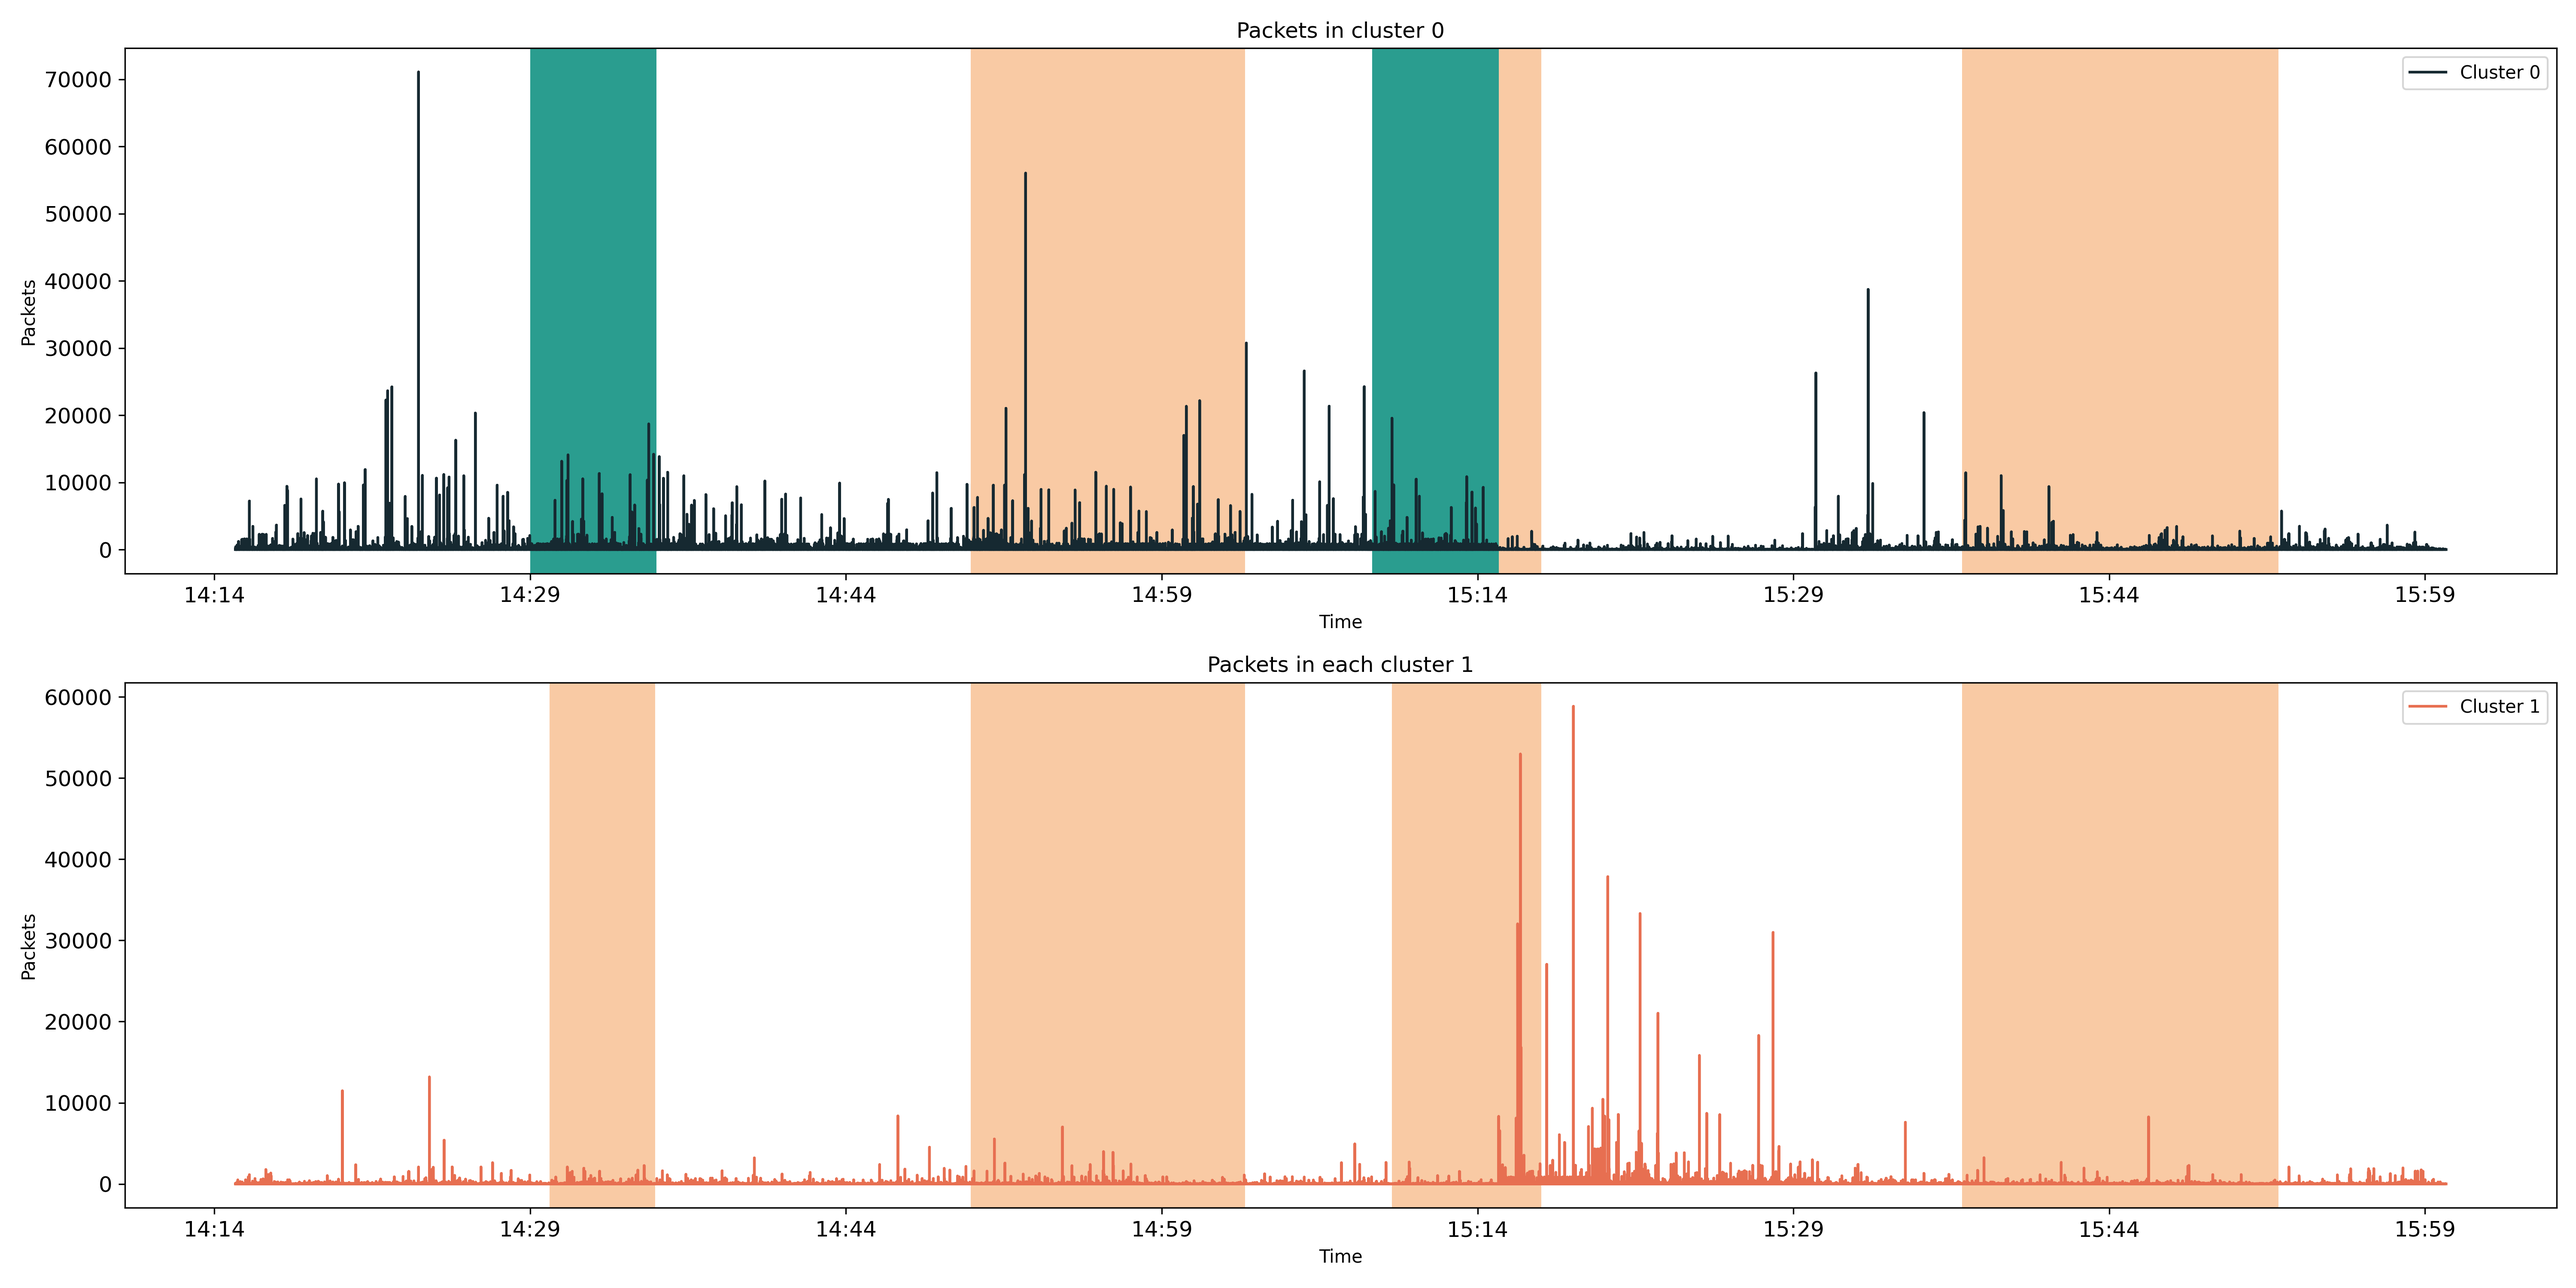
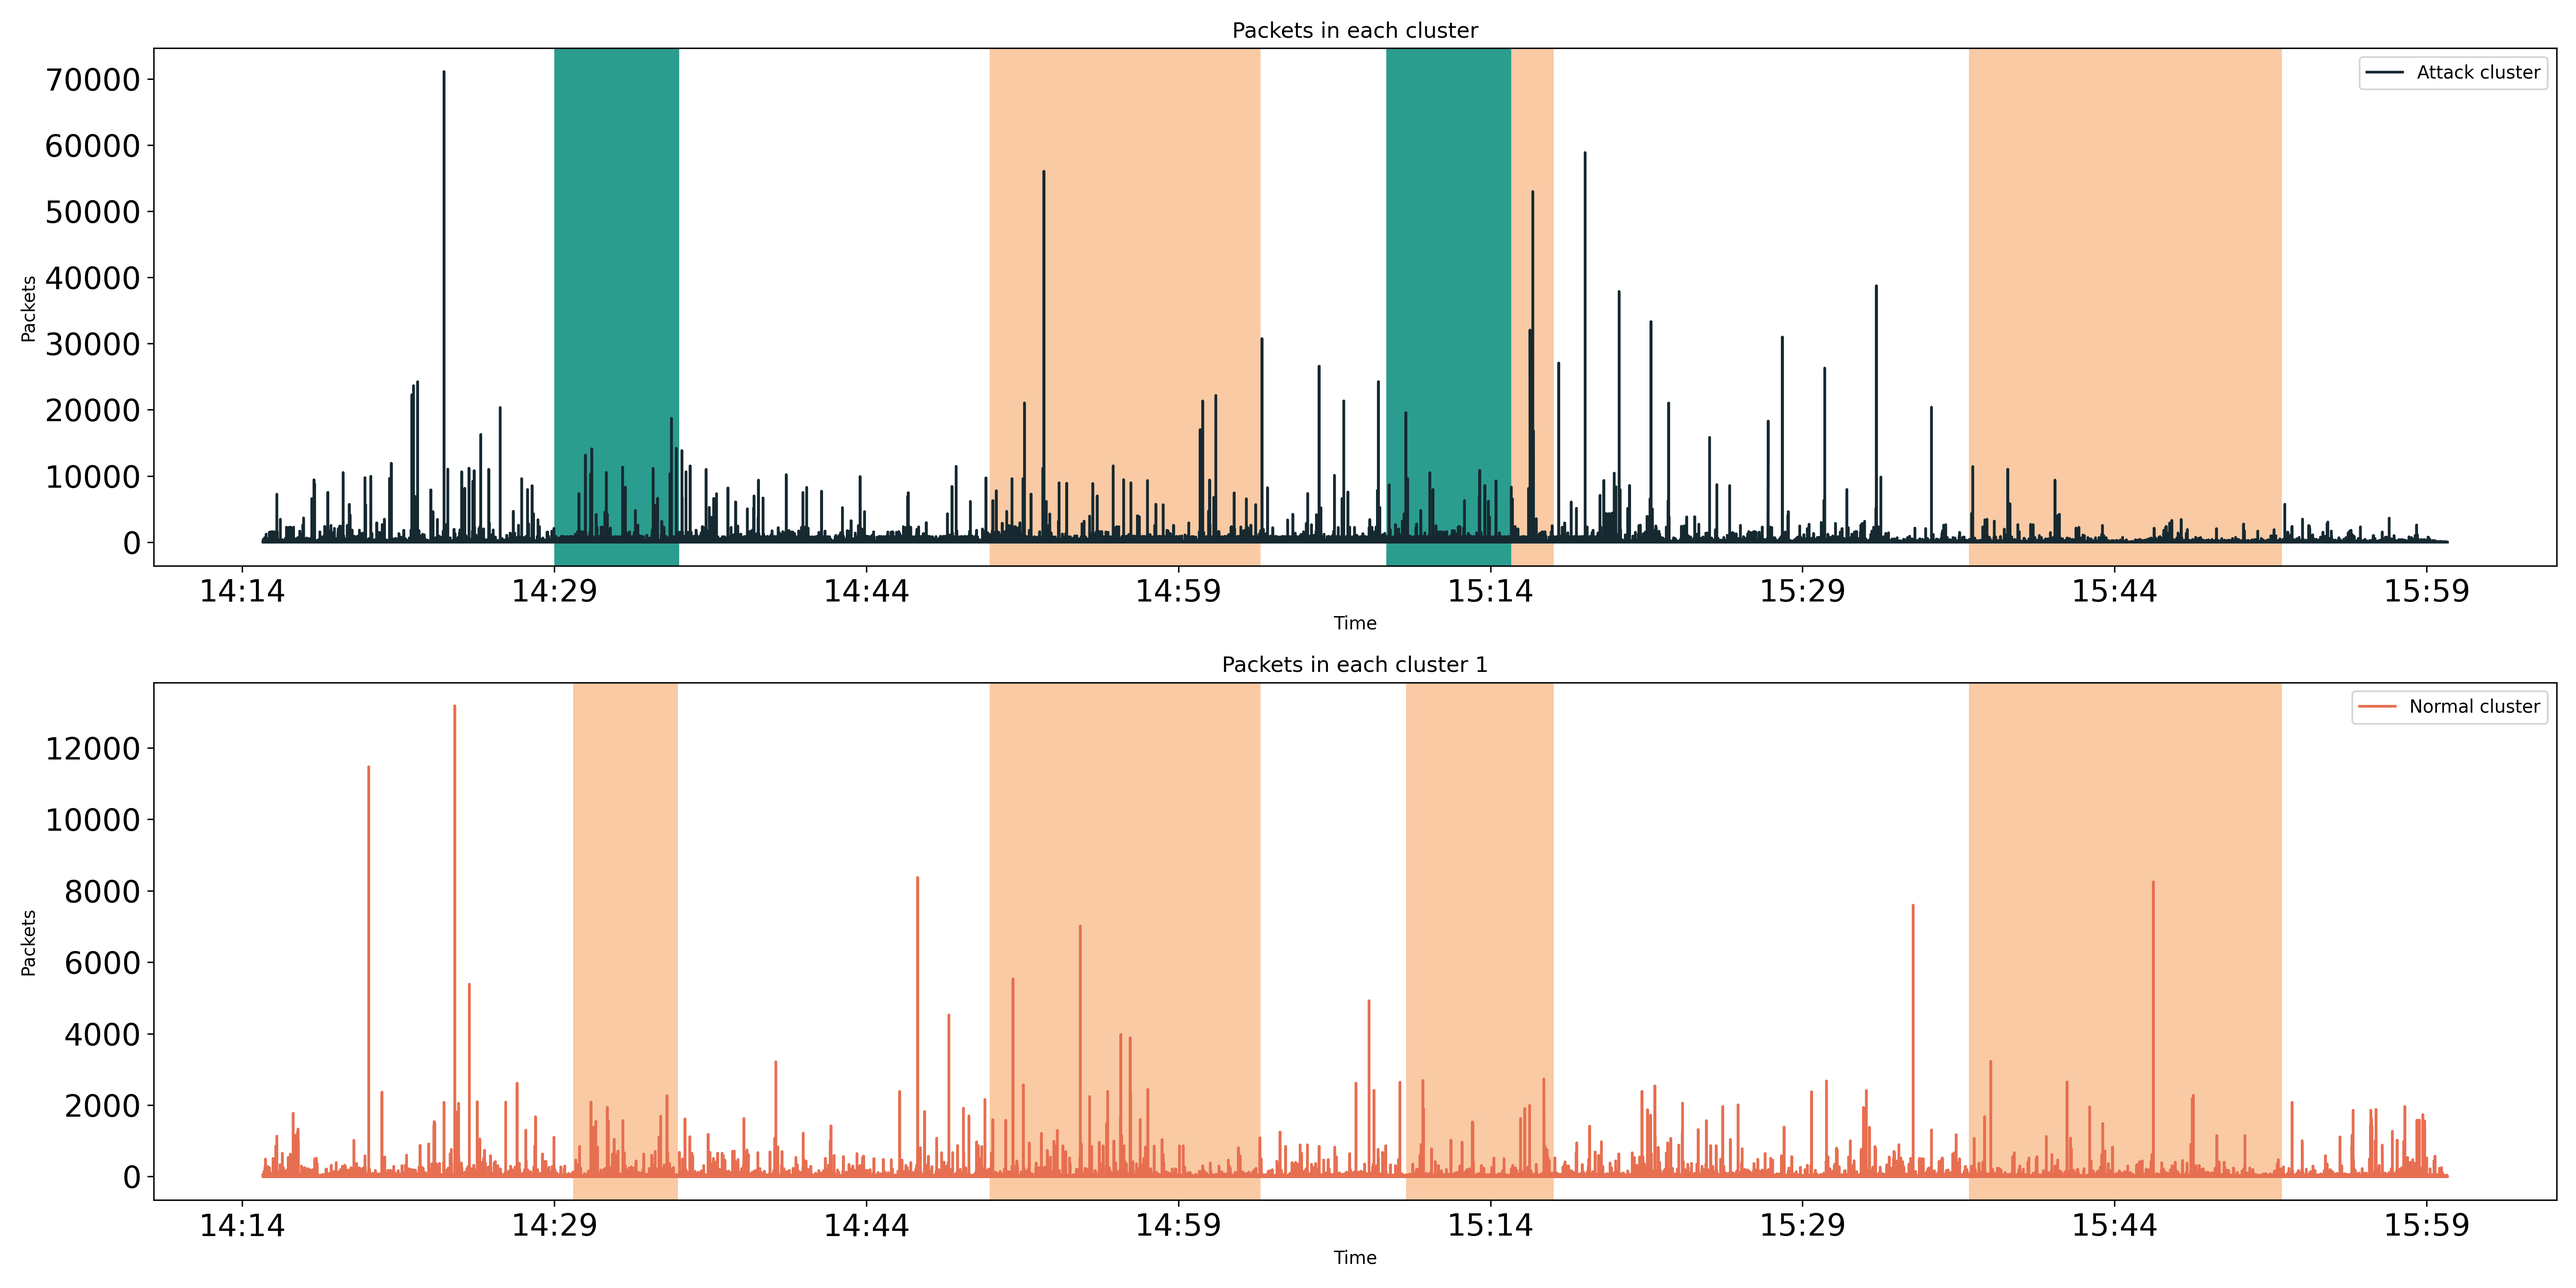
made correct plots for combined

diff --git a/NetFlow/Kmeans/Plotting/plotKmeansCombined.py b/NetFlow/Kmeans/Plotting/plotKmeansCombined.py
@@ -27,105 +27,120 @@ def plotKmeansFields(start, stop, interval, clusterFrequency, systemId, attackDa
     
     intervalTime = (stopTime - startTime).total_seconds()/clusterFrequency.total_seconds()
     timeAxis = []
-    packetsCluster0 = []
-    packetsCluster1 = []
-    sTimeCluster0 = []
-    sTimeCluster1 = []
+    packetsClusterAttack = []
+    packetsClusterNormal = []
+    sTimeClusterAttack = []
+    sTimeClusterNormal = []
+    maxValue = 0
     #Loop for every minute in a week
     for i in range(math.ceil(intervalTime)):
         stopTime = startTime + clusterFrequency
-  
 
-        cluster0 = pd.read_csv("Calculations0803/Kmeans/NetFlow/Combined.Cluster0."+ str(int(interval.total_seconds())) +"secInterval.attack."+str(attackDate)+ ".stopTime." + stopTime.strftime("%H.%M.%S")+ "."+ str(systemId)+ ".csv")
-        cluster1 = pd.read_csv("Calculations0803/Kmeans/NetFlow/Combined.Cluster1."+ str(int(interval.total_seconds())) +"secInterval.attack."+str(attackDate)+ ".stopTime." + stopTime.strftime("%H.%M.%S")+ "."+ str(systemId)+ ".csv")
-        sTime0 = pd.to_datetime(cluster0["sTime"])
-        sTime1 = pd.to_datetime(cluster1["sTime"])
-
-        packets0 = cluster0["packets"]
-        labels0 = cluster0["real_label"]
-        packets1 = cluster1["packets"]
-        labels1 = cluster1["real_label"]
+        clusterLabels = pd.read_csv("Calculations0803/Kmeans/NetFlow/Combined.ClusterLabelling."+ str(int(interval.total_seconds())) +"secInterval.attack."+str(attackDate)+ ".stopTime." + stopTime.strftime("%H.%M.%S")+ "."+ str(systemId)+ ".csv")
         
+        if clusterLabels["AttackCluster"][0] == 0:
+            attackCluster = pd.read_csv("Calculations0803/Kmeans/NetFlow/Combined.Cluster0."+ str(int(interval.total_seconds())) +"secInterval.attack."+str(attackDate)+ ".stopTime." + stopTime.strftime("%H.%M.%S")+ "."+ str(systemId)+ ".csv")
+            nonAttackCluster = pd.read_csv("Calculations0803/Kmeans/NetFlow/Combined.Cluster1."+ str(int(interval.total_seconds())) +"secInterval.attack."+str(attackDate)+ ".stopTime." + stopTime.strftime("%H.%M.%S")+ "."+ str(systemId)+ ".csv")
+        
+        elif clusterLabels["AttackCluster"][0] == 1:
+            attackCluster = pd.read_csv("Calculations0803/Kmeans/NetFlow/Combined.Cluster1."+ str(int(interval.total_seconds())) +"secInterval.attack."+str(attackDate)+ ".stopTime." + stopTime.strftime("%H.%M.%S")+ "."+ str(systemId)+ ".csv")
+            nonAttackCluster = pd.read_csv("Calculations0803/Kmeans/NetFlow/Combined.Cluster0."+ str(int(interval.total_seconds())) +"secInterval.attack."+str(attackDate)+ ".stopTime." + stopTime.strftime("%H.%M.%S")+ "."+ str(systemId)+ ".csv")
+        
+        print(clusterLabels["AttackCluster"])
+        sTimeAttack = pd.to_datetime(attackCluster["sTime"])
+        sTimeNormal = pd.to_datetime(nonAttackCluster["sTime"])
+
+        packetsAttack = attackCluster["packets"]
+        labelsAttack = attackCluster["real_label"]
+        packetsNormal = nonAttackCluster["packets"]
+        labelsNormal = nonAttackCluster["real_label"]
         
         #format = '%Y-%m-%dT%H:%M:%SZ'
-        eTime0 = pd.to_datetime(cluster0["eTime"])
-        eTime1 = pd.to_datetime(cluster1["eTime"])
+        eTimeAttack = pd.to_datetime(attackCluster["eTime"])
+        eTimeNormal = pd.to_datetime(nonAttackCluster["eTime"])
 
         lastInterval = pd.Interval(pd.Timestamp.now().replace(tzinfo=None), pd.Timestamp.now().replace(tzinfo=None), closed="both")
 
-        for i in range(len(labels0)):
-            if labels0[i] == 1:
-                if sTime0[i].replace(second=0).replace(tzinfo=None) in lastInterval and eTime0[i].replace(second=0).replace(tzinfo=None) in lastInterval:
+        for i in range(len(labelsAttack)):
+            if labelsAttack[i] == 1:
+                if sTimeAttack[i].replace(second=0).replace(tzinfo=None) in lastInterval and eTimeAttack[i].replace(second=0).replace(tzinfo=None) in lastInterval:
                     continue
-                elif sTime0[i].replace(second=0).replace(tzinfo=None) in lastInterval:
+                elif sTimeAttack[i].replace(second=0).replace(tzinfo=None) in lastInterval:
 
-                    nowInterval = pd.Interval(lastInterval.right, eTime0[i].replace(second=0).replace(tzinfo=None)+timedelta(minutes=1), closed="both")
-                    lastInterval = pd.Interval(lastInterval.left, eTime0[i].replace(second=0).replace(tzinfo=None) +timedelta(minutes=1), closed="both")
+                    nowInterval = pd.Interval(lastInterval.right, eTimeAttack[i].replace(second=0).replace(tzinfo=None)+timedelta(minutes=1), closed="both")
+                    lastInterval = pd.Interval(lastInterval.left, eTimeAttack[i].replace(second=0).replace(tzinfo=None) +timedelta(minutes=1), closed="both")
                 
-                elif eTime0[i].replace(second=0).replace(tzinfo=None) in lastInterval:
+                elif eTimeAttack[i].replace(second=0).replace(tzinfo=None) in lastInterval:
             
-                    nowInterval = pd.Interval(sTime0[i].replace(second=0).replace(tzinfo=None), lastInterval.left, closed="both")
-                    lastInterval = pd.Interval(sTime0[i].replace(second=0).replace(tzinfo=None), lastInterval.right, closed="both")
+                    nowInterval = pd.Interval(sTimeAttack[i].replace(second=0).replace(tzinfo=None), lastInterval.left, closed="both")
+                    lastInterval = pd.Interval(sTimeAttack[i].replace(second=0).replace(tzinfo=None), lastInterval.right, closed="both")
                 else:
-                    nowInterval = pd.Interval(sTime0[i].replace(second=0).replace(tzinfo=None), eTime0[i].replace(second=0).replace(tzinfo=None) +timedelta(minutes=1), closed="both")
+                    nowInterval = pd.Interval(sTimeAttack[i].replace(second=0).replace(tzinfo=None), eTimeAttack[i].replace(second=0).replace(tzinfo=None) +timedelta(minutes=1), closed="both")
                     lastInterval = nowInterval
 
                 axs[0].axvspan(nowInterval.left, nowInterval.right, facecolor="#2A9D8F")
-            sTimeCluster0.append(sTime0[i].replace(tzinfo=None))
-            packetsCluster0.append(packets0[i])
-        for i in range(len(labels1)):
-            if labels1[i] == 1:
-                if sTime1[i].replace(second=0).replace(tzinfo=None) in lastInterval and eTime1[i].replace(second=0).replace(tzinfo=None) in lastInterval:
+            sTimeClusterAttack.append(sTimeAttack[i].replace(tzinfo=None))
+            packetsClusterAttack.append(packetsAttack[i])
+            if packetsAttack[i] > maxValue:
+                maxValue = packetsAttack[i]
+        for i in range(len(labelsNormal)):
+            if labelsNormal[i] == 1:
+                if sTimeNormal[i].replace(second=0).replace(tzinfo=None) in lastInterval and eTimeNormal[i].replace(second=0).replace(tzinfo=None) in lastInterval:
                     continue
-                elif sTime1[i].replace(second=0).replace(tzinfo=None) in lastInterval:
+                elif sTimeNormal[i].replace(second=0).replace(tzinfo=None) in lastInterval:
 
-                    nowInterval = pd.Interval(lastInterval.right, eTime1[i].replace(second=0).replace(tzinfo=None)+timedelta(minutes=1), closed="both")
-                    lastInterval = pd.Interval(lastInterval.left, eTime1[i].replace(second=0).replace(tzinfo=None) +timedelta(minutes=1), closed="both")
+                    nowInterval = pd.Interval(lastInterval.right, eTimeNormal[i].replace(second=0).replace(tzinfo=None)+timedelta(minutes=1), closed="both")
+                    lastInterval = pd.Interval(lastInterval.left, eTimeNormal[i].replace(second=0).replace(tzinfo=None) +timedelta(minutes=1), closed="both")
                 
-                elif eTime1[i].replace(second=0).replace(tzinfo=None) in lastInterval:
+                elif sTimeNormal[i].replace(second=0).replace(tzinfo=None) in lastInterval:
             
-                    nowInterval = pd.Interval(sTime1[i].replace(second=0).replace(tzinfo=None), lastInterval.left, closed="both")
-                    lastInterval = pd.Interval(sTime1[i].replace(second=0).replace(tzinfo=None), lastInterval.right, closed="both")
+                    nowInterval = pd.Interval(sTimeNormal[i].replace(second=0).replace(tzinfo=None), lastInterval.left, closed="both")
+                    lastInterval = pd.Interval(sTimeNormal[i].replace(second=0).replace(tzinfo=None), lastInterval.right, closed="both")
                 else:
-                    nowInterval = pd.Interval(sTime1[i].replace(second=0).replace(tzinfo=None), eTime1[i].replace(second=0).replace(tzinfo=None) +timedelta(minutes=1), closed="both")
+                    nowInterval = pd.Interval(sTimeNormal[i].replace(second=0).replace(tzinfo=None), eTimeNormal[i].replace(second=0).replace(tzinfo=None) +timedelta(minutes=1), closed="both")
                     lastInterval = nowInterval
 
                 axs[1].axvspan(nowInterval.left, nowInterval.right, facecolor="#2A9D8F")
-            sTimeCluster1.append(sTime1[i].replace(tzinfo=None))
-            packetsCluster1.append(packets1[i])
+            sTimeClusterNormal.append(sTimeNormal[i].replace(tzinfo=None))
+            packetsClusterNormal.append(packetsNormal[i])
+
+            if packetsNormal[i] > maxValue:
+                maxValue = packetsNormal[i]
+
         startTime += clusterFrequency
 
-    axs[0].scatter(sTimeCluster0 ,packetsCluster0, color="#162931", label="Cluster 0")
+    axs[0].scatter(sTimeClusterAttack ,packetsClusterAttack, color="#162931", label="Attack cluster")
 
-    axs[1].scatter(sTimeCluster1 ,packetsCluster1, color="#E76F51", label="Cluster 1")
+    axs[1].scatter(sTimeClusterNormal ,packetsClusterNormal, color="#E76F51", label="Normal cluster")
 
     axs[0].xaxis.set(
         major_locator=mdates.MinuteLocator(interval=15),
         major_formatter=mdates.DateFormatter("%H:%M")
     )
-    axs[0].set_title("Packets in cluster 0")
+    axs[0].set_title("Packets in each cluster")
+    axs[0].title.set_size(20)
     axs[0].set_xlabel('Time')
     axs[0].set_ylabel("Packets")
-    axs[0].tick_params(axis='both', which='major', labelsize=12)
+    axs[0].set_ylim([0,maxValue])
+    axs[0].tick_params(axis='both', which='major', labelsize=17)
     axs[0].legend()
     #axs[0].text(0.7, 0.9, 'Labeled attack cluster: ' + str(deviation), horizontalalignment='center', verticalalignment='center', transform=ax.transAxes, bbox=dict(facecolor='blue', alpha=0.2))
     
-    axs[1].set_title("Packets in each cluster 1")
     axs[1].xaxis.set(
         major_locator=mdates.MinuteLocator(interval=15),
         major_formatter=mdates.DateFormatter("%H:%M")
     )
     axs[1].set_xlabel('Time')
     axs[1].set_ylabel("Packets")
-    axs[1].tick_params(axis='both', which='major', labelsize=12)
+    axs[1].tick_params(axis='both', which='major', labelsize=17)
+    axs[1].set_ylim([0,maxValue])
     axs[1].legend()
     fig.tight_layout()
     fig.savefig("Plots/Kmeans/Attack0803/NetFlow/Combined/Packets.Scatter."+  str(systemId)+ "."+ str(int(interval.total_seconds())) +"secInterval.png", dpi=300)
     plt.close()
 
 
-systems = [ "trd-gw", "ifi2-gw5", 
-            "oslo-gw1"]
+systems = ["bergen-gw3"]
 startKmeans = "2023-03-08 14:15:00"
 stopKmeans= "2023-03-08 16:00:00"
 clusterFrequency = timedelta(minutes = 15)
